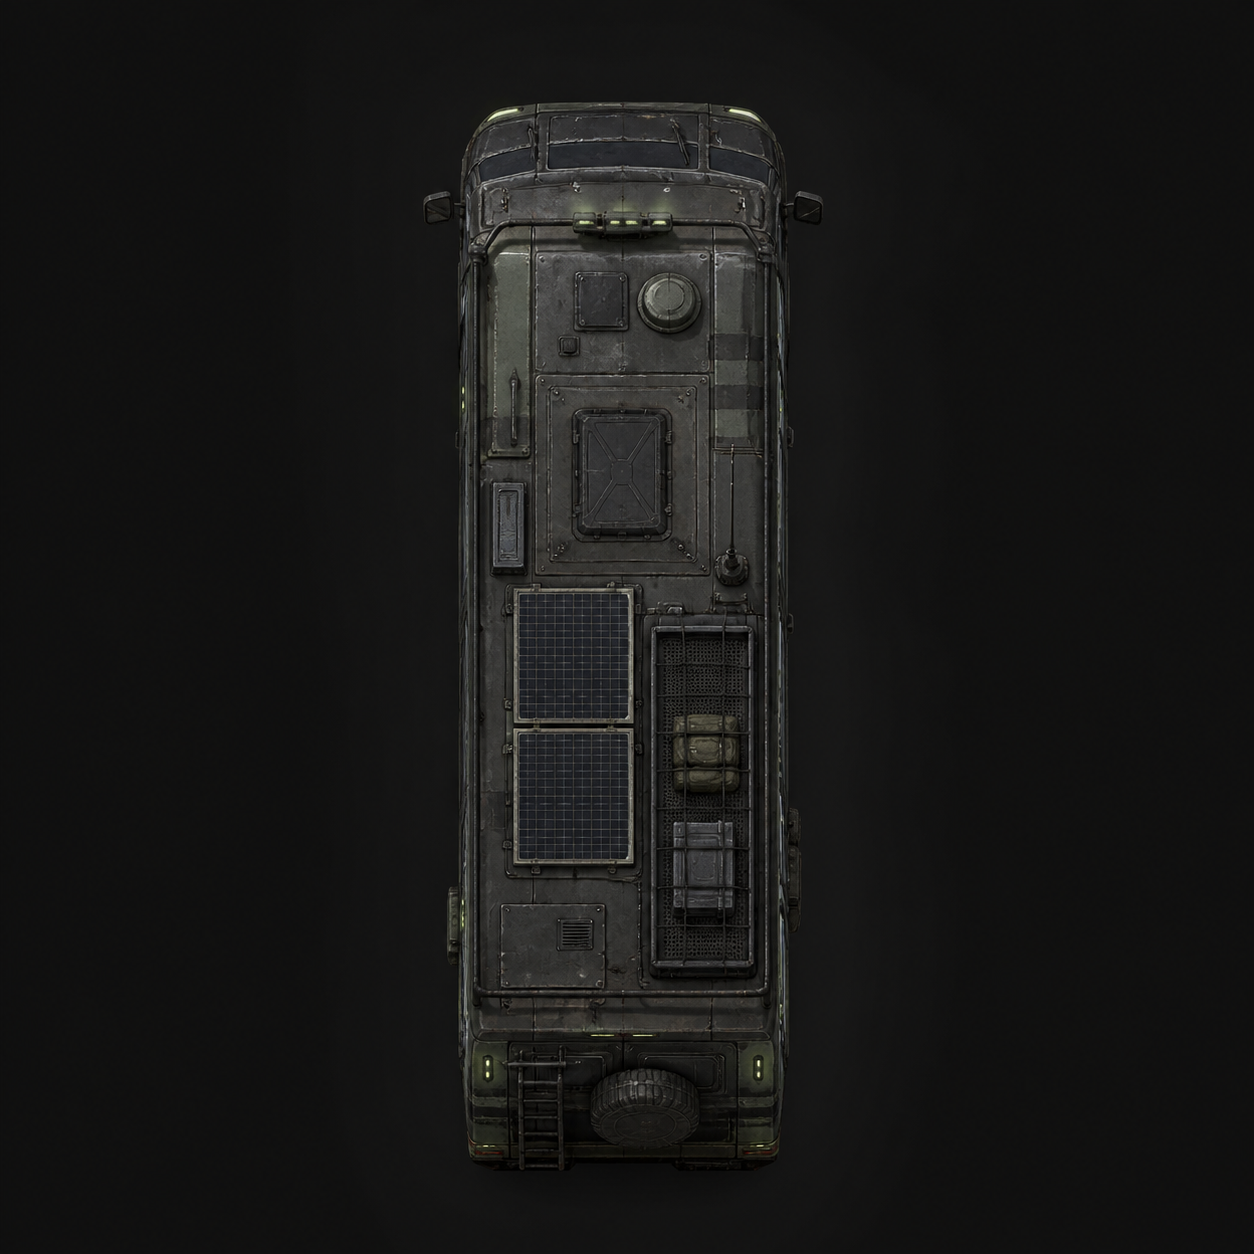
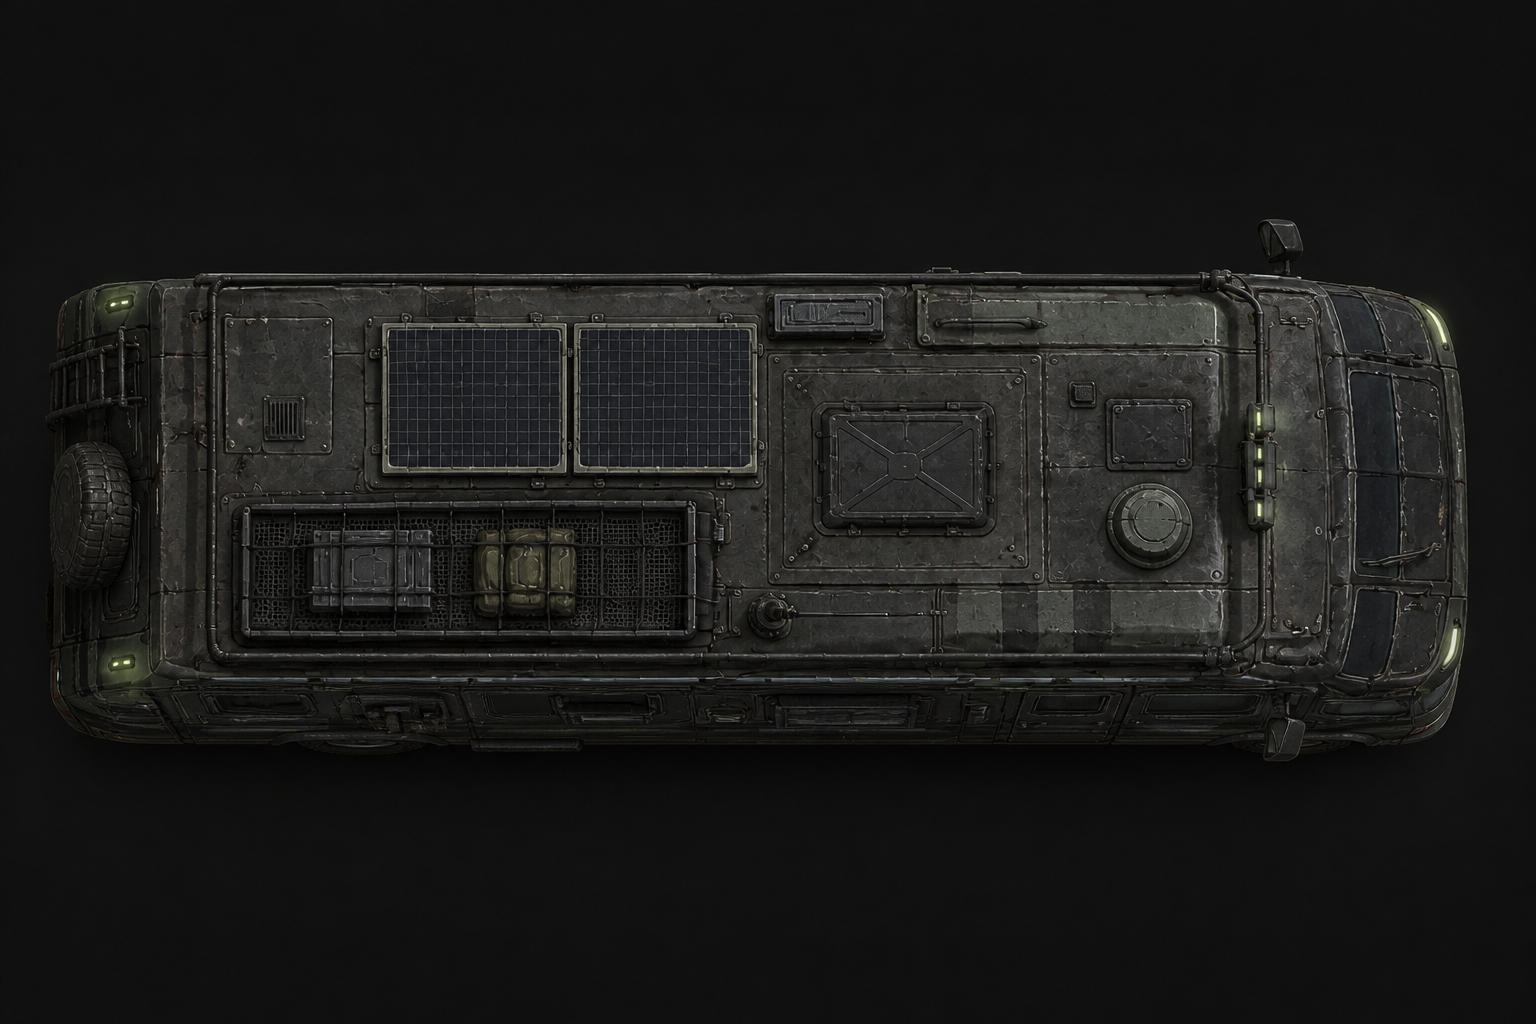
Widen RV repair artwork

Changed region(s): [[0.0311, 0.0625, 0.9641, 0.9375]]

diff --git a/app/globals.css b/app/globals.css
@@ -20,7 +20,7 @@ h1 { max-width:620px; margin:16px 0 12px; font-size:58px; line-height:1.05; lett
 .primary { border:0; padding:14px 18px; background:var(--acid); color:#111; font-weight:800; border-radius:8px; cursor:pointer; }.primary i { margin-left:40px; font-style:normal; }
 .dashboard-grid { display:grid; grid-template-columns:1.6fr 1fr; gap:18px; padding-top:18px; }.panel { background:var(--panel); border:1px solid var(--line); border-radius:18px; padding:24px; }.panel-heading { display:flex; align-items:center; justify-content:space-between; margin-bottom:20px; }.panel-heading h2 { margin:7px 0 0; font-size:23px; }.text-button { background:none; border:0; color:#aeb4af; cursor:pointer; }.percent { color:var(--acid); font-size:24px; }
 .crew-row { display:grid; grid-template-columns:repeat(4,1fr); gap:12px; }.crew-card { min-height:225px; text-align:left; color:var(--text); position:relative; border:1px solid #3a3e3b; border-radius:14px; padding:13px; overflow:hidden; cursor:pointer; background:linear-gradient(155deg,#252927,#151817 60%); transition:.2s ease; }.crew-card:hover { transform:translateY(-3px); border-color:#666e68; }.crew-card.selected { border-color:var(--acid); box-shadow:0 0 0 1px var(--acid),0 12px 26px #0006; }.crew-card.q-skilled { background:linear-gradient(150deg,#304338,#161917 62%); border-color:#4e6659; }.crew-card.q-elite { background:linear-gradient(150deg,#2d3b46,#151719 62%); border-color:#50677a; }.crew-card.q-master { background:linear-gradient(150deg,#51402d,#181613 62%); border-color:#92734b; }.crew-card.q-legend { background:linear-gradient(150deg,#d6d3c8,#686861 45%,#1b1c1b 72%); border-color:#f0eee2; }.card-top { display:flex; justify-content:space-between; align-items:center; font-size:12px; color:#8e9791; }.card-top em { font-style:normal; padding:4px 7px; border:1px solid #49504c; border-radius:10px; color:#c9cecb; }.portrait { width:76px; height:76px; border-radius:50%; margin:18px auto 13px; display:grid; place-items:center; background:radial-gradient(circle at 40% 30%,#3e4742,#1c211e); color:#7c8981; font-size:33px; font-weight:900; border:1px solid #3f4843; position:relative; }.portrait i { position:absolute; inset:5px; border:1px solid #ffffff0c; border-radius:50%; }.crew-card strong { display:block; font-size:16px; }.crew-card>small { color:var(--muted); display:block; margin-top:5px; font-size:12px; }.card-score { position:absolute; right:13px; bottom:33px; font-size:30px; font-weight:900; letter-spacing:-.06em; }.stamina { position:absolute; bottom:14px; left:13px; right:13px; height:3px; background:#343936; border-radius:4px; overflow:hidden; }.stamina i { display:block; height:100%; background:linear-gradient(90deg,#55d58a,var(--acid)); }.crew-card.compact { min-height:205px; }.crew-card.compact .portrait { width:62px; height:62px; }.empty-seat { min-height:205px; border:1px dashed #343936; border-radius:13px; background:transparent; color:#686f6a; display:flex; flex-direction:column; align-items:center; justify-content:center; text-align:center; }.empty-seat span { display:block; font-size:29px; margin-bottom:9px; }.empty-seat b { font-size:12px; color:#8c938e; }.empty-seat small { max-width:130px; margin-top:7px; line-height:1.4; }
-.rv-panel { align-self:start; }.rv-exterior-stage { position:relative; overflow:hidden; min-height:360px; border:1px solid #303632; border-radius:14px; background:radial-gradient(circle at 50% 45%,#1b211e 0,#111413 68%); box-shadow:inset 0 1px #ffffff08,0 16px 35px #0005; }.rv-exterior-stage:after { content:""; position:absolute; inset:0; pointer-events:none; background:linear-gradient(180deg,transparent 65%,#0e1110 100%); }.rv-exterior-image { position:absolute; inset:18px 18px 48px; background:url("/assets/rv-exterior-topdown.png") center/contain no-repeat; filter:saturate(.78) contrast(1.05); }.rv-exterior-meta { position:absolute; z-index:1; left:16px; right:16px; bottom:13px; display:flex; align-items:end; justify-content:space-between; gap:12px; }.rv-exterior-meta span { color:#748078; font-size:12px; letter-spacing:.13em; }.rv-exterior-meta b { color:#cbd2cd; font-size:12px; font-weight:650; }
+.rv-panel { align-self:start; }.rv-exterior-stage { position:relative; overflow:hidden; width:100%; min-height:280px; aspect-ratio:16/7; border:1px solid #303632; border-radius:14px; background:radial-gradient(circle at 50% 45%,#1b211e 0,#111413 68%); box-shadow:inset 0 1px #ffffff08,0 16px 35px #0005; }.rv-exterior-stage:after { content:""; position:absolute; inset:0; pointer-events:none; background:linear-gradient(180deg,transparent 65%,#0e1110 100%); }.rv-exterior-image { position:absolute; inset:10px 10px 46px; background:url("/assets/rv-exterior-topdown.png") center 51%/cover no-repeat; filter:saturate(.78) contrast(1.07); transform:scale(1.035); }.rv-exterior-meta { position:absolute; z-index:1; left:16px; right:16px; bottom:13px; display:flex; align-items:end; justify-content:space-between; gap:12px; }.rv-exterior-meta span { color:#748078; font-size:12px; letter-spacing:.13em; }.rv-exterior-meta b { color:#cbd2cd; font-size:12px; font-weight:650; }
 .repair-list { margin-top:16px; border-top:1px solid #2a2e2b; }.repair-list button { width:100%; display:flex; align-items:center; justify-content:space-between; gap:18px; padding:14px 2px; border:0; border-bottom:1px solid #242725; background:none; font-size:12px; color:var(--muted); cursor:pointer; }.repair-list button:hover b { color:var(--acid); }.repair-list button>span { flex:1; min-width:0; text-align:left; }.repair-list button i { display:block; height:3px; max-width:190px; background:linear-gradient(90deg,#667765,var(--acid)); border-radius:4px; margin-top:8px; }.repair-list b { flex:none; color:#cdd2ce; }
 .selection-count { color:#858b87; font-size:12px; }.upgrades-panel { margin-top:18px; }.upgrade-grid { display:grid; grid-template-columns:repeat(6,1fr); gap:10px; }.upgrade-grid button { border:1px solid #2e3330; background:#161918; color:#ddd; border-radius:10px; padding:13px; display:flex; align-items:center; text-align:left; gap:10px; cursor:pointer; }.upgrade-grid button>span { width:32px;height:32px;border-radius:8px;background:#242a27;display:grid;place-items:center;color:var(--acid);font-weight:900}.upgrade-grid button div { min-width:0; }.upgrade-grid b,.upgrade-grid small { display:block; }.upgrade-grid b { font-size:12px; }.upgrade-grid small { color:#737b76;font-size:12px;margin-top:4px;white-space:nowrap}.upgrade-grid em{font-style:normal;margin-left:auto;color:#626a65}.upgrade-grid button:hover{border-color:#647160}.upgrade-grid button:hover em{color:var(--acid)}
 
